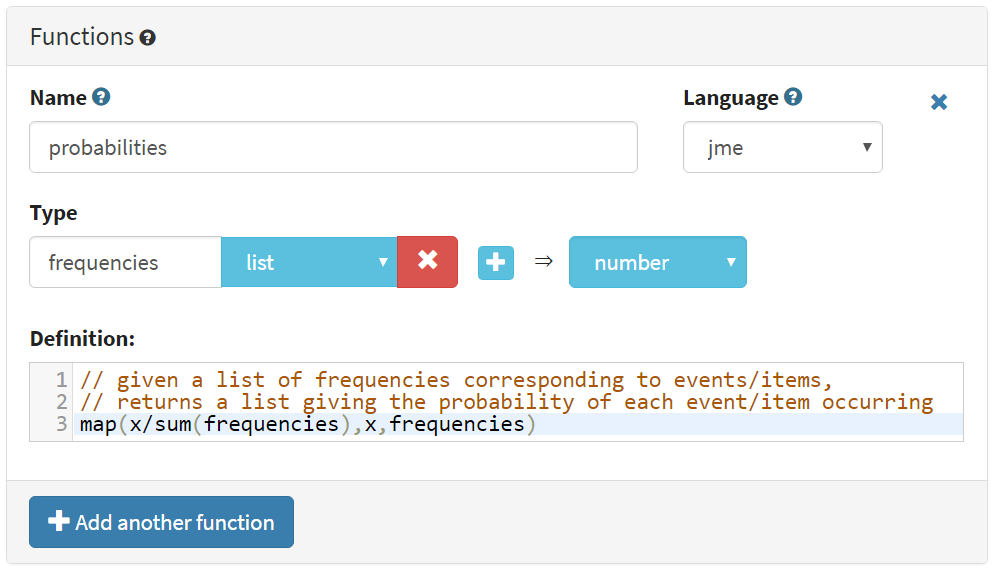
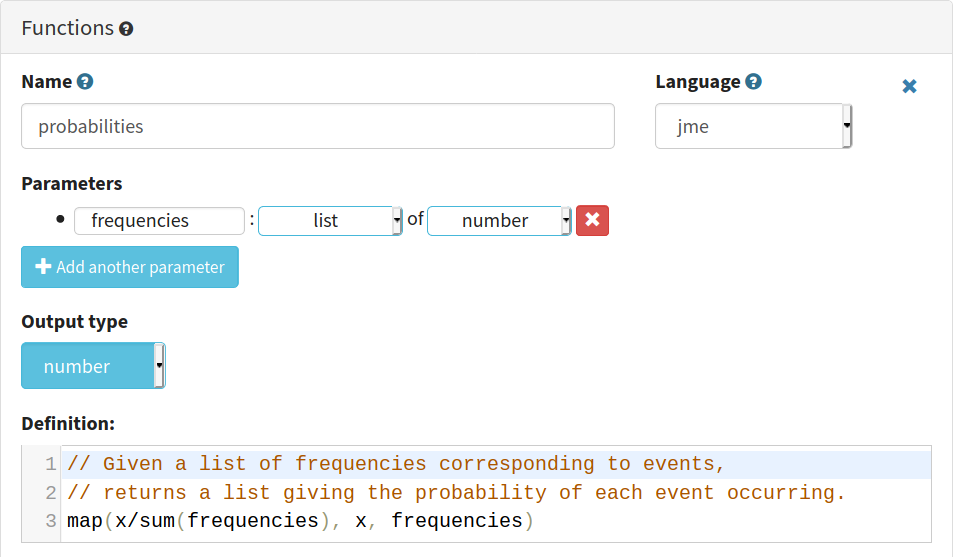
"list of" option for function parameters
Custom JS functions which take lists of numbers need to make sure that
all number-like types are cast to JS numbers.

diff --git a/editor/templates/question/edit.html b/editor/templates/question/edit.html
@@ -691,29 +691,31 @@
                                     </div>
                                 </div>
                                 <div class="form-group form-inline">
-                                    <label>Type</label>
-                                    <ul class="list-inline parameters">
+                                    <label>Parameters</label>
+                                    <ul class="parameters">
                                         <!-- ko foreach: parameters -->
                                         <li class="parameter">
-                                            <div class="input-group">
-                                                <input {% if not editable %}disabled{% endif %} placeholder="Name" type="text" class="form-control" data-bind="textInput: name, autosize: name">
-                                                <span class="input-group-btn">
-                                                    <select {% if not editable %}disabled{% endif %} class="btn btn-info" data-bind="options: $parent.types, value: type" title"Type of this parameter"></select>
-                                                    {% if editable %}<button type="button" class="btn btn-danger" title="Remove this parameter" data-bind="click: remove"><span class="glyphicon glyphicon-remove"></span></button>{% endif %}
-                                                </span>
-                                            </div>
+                                            <input {% if not editable %}disabled{% endif %} placeholder="Name" type="text" class="form-control" data-bind="textInput: name, autosize: name">
+                                            :
+                                            <select {% if not editable %}disabled{% endif %} class="btn btn-info" data-bind="options: $parent.parameterTypes, value: type" title"Type of this parameter"></select>
+                                            <!-- ko if: show_of -->
+                                            of
+                                            <select {% if not editable %}disabled{% endif %} class="btn btn-info" data-bind="options: $parent.parameterTypes, value: of_type" title"Type of the contents"></select>
+                                            <!-- /ko -->
+                                            {% if editable %}<button type="button" class="btn btn-danger btn-xs" title="Remove this parameter" data-bind="click: remove"><span class="glyphicon glyphicon-remove"></span></button>{% endif %}
                                         </li>
                                         <!-- /ko -->
-                                        {% if editable %}
-                                        <li>
-                                            <button type="button" class="btn btn-xs btn-info" title="Add a parameter" data-bind="click: addParameter"><span class="glyphicon glyphicon-plus"></span></button>
-                                        </li>
-                                        {% endif %}
-                                        <li class="output">
-                                            <select {% if not editable %}disabled{% endif %} class="form-control btn-info" data-bind="options: types, value: type" title="Output type"></select>
-                                        </li>
                                     </ul>
+                                    {% if editable %}
+                                    <button type="button" class="btn btn-sm btn-info" title="Add a parameter" data-bind="click: addParameter"><span class="glyphicon glyphicon-plus"></span> <span data-bind="text: parameters().length ? 'Add another parameter' : 'Add a parameter'"></span></button>
+                                    {% endif %}
                                 </div>
+
+                                <div class="form-group form-inline output">
+                                    <label>Output type</label>
+                                    <p><select {% if not editable %}disabled{% endif %} class="form-control btn-info" data-bind="options: outputTypes, value: type" title="Output type"></select></p>
+                                </div>
+
                                 <div clas="form-group">
                                     <label>
                                         Definition:

diff --git a/editor/static/js/question/edit.js b/editor/static/js/question/edit.js
@@ -40,6 +40,7 @@ $(document).ready(function() {
             }
         }
         types.sort();
+        types.splice(0,0,'anything');
         jmeTypes(types);
     }
     find_jme_types();
@@ -862,7 +863,8 @@ $(document).ready(function() {
                             }
                             return {
                                 name: p.name(),
-                                type: p.type()
+                                type: p.type(),
+                                of_type: p.of_type()
                             }
                         })
                     };
@@ -2109,9 +2111,10 @@ $(document).ready(function() {
 
     function CustomFunction(q,data) {
         this.name = ko.observable('');
-        this.types = jmeTypes;
+        this.outputTypes = jmeTypes;
+        this.parameterTypes = jmeTypes;
         this.parameters = ko.observableArray([])
-        this.type = ko.observable('number');
+        this.type = ko.observable('anything');
         this.definition = ko.observable('');
         this.languages = ['jme','javascript'];
         this.language = ko.observable('jme');
@@ -2130,14 +2133,14 @@ $(document).ready(function() {
             tryLoad(data,['name','type','definition','language'],this);
             if('parameters' in data) {
                 data.parameters.map(function(p) {
-                    f.parameters.push(new FunctionParameter(f,p[0],p[1]));
+                    f.parameters.push(new FunctionParameter(f,p[0],p[1] || 'anything',p[2] || 'anything'));
                 });
             }
         },
 
         toJSON: function() {
             var parameters = this.parameters().map(function(p) {
-                return [p.name(), p.type()];
+                return [p.name(), p.type(), p.of_type()];
             });
             return {
                 parameters: parameters,
@@ -2148,13 +2151,19 @@ $(document).ready(function() {
         },
 
         addParameter: function() {
-            this.parameters.push(new FunctionParameter(this,'','number'));
+            this.parameters.push(new FunctionParameter(this,'','number','anything'));
         }
     };
 
-    function FunctionParameter(f,name,type) {
+    function FunctionParameter(f,name,type,of_type) {
         this.name = ko.observable(name);
         this.type = ko.observable(type);
+        this.of_type = ko.observable(of_type);
+
+        this.show_of = ko.computed(function() {
+            return ['list','dict'].contains(this.type());
+        },this);
+
         this.remove = function() {
             f.parameters.remove(this);
         }

diff --git a/editor/static/js/numbas/numbas-runtime.js b/editor/static/js/numbas/numbas-runtime.js
@@ -10884,6 +10884,7 @@ Copyright 2011-14 Newcastle University
  */
 Numbas.queueScript('jme-variables',['base','jme','util'],function() {
 var jme = Numbas.jme;
+var sig = jme.signature;
 var util = Numbas.util;
 /** @namespace Numbas.jme.variables */
 
@@ -10976,7 +10977,15 @@ jme.variables = /** @lends Numbas.jme.variables */ {
         var intype = [],
             paramNames = [];
         tmpfn.parameters.map(function(p) {
-            intype.push(jme.types[p.type]);
+            var type;
+            if(p.type=='list' && p.of_type!='anything') {
+                type = sig.listof(sig.type(p.of_type));
+            } else if(p.type=='dict' && p.of_type!='anything') {
+                type = sig.dict(sig.type(p.of_type));
+            } else {
+                type = jme.types[p.type];
+            }
+            intype.push(type);
             paramNames.push(p.name);
         });
         var outcons = jme.types[tmpfn.outtype];
@@ -14166,7 +14175,13 @@ Question.prototype = /** @lends Numbas.Question.prototype */
                     definition: fd.definition,
                     language: fd.language,
                     outtype: fd.type,
-                    parameters: fd.parameters.map(function(p){ return {name:p[0], type: p[1]}})
+                    parameters: fd.parameters.map(function(p){ 
+                        return {
+                            name:p[0], 
+                            type: p[1] || 'anything', 
+                            of_type: p[2] || 'anything'
+                        }
+                    })
                 };
             });
         }

diff --git a/editor/static/css/question/edit.css b/editor/static/css/question/edit.css
@@ -143,18 +143,21 @@ table.variable-list .value-cell .value {
     text-decoration: line-through;
 }
 
+.function .parameters {
+    list-style: disc;
+}
+
 .function .parameters li {
     margin-bottom: 0.5em;
 }
 
-.function .parameter + .parameter::before {
-    content: ',';
-    margin-right: 0.5em;
-}
-
-.function .output::before {
-    content: '⇒';
-    margin-right: 0.5em;
+.function .parameter .btn.btn-info, .function .parameter input.form-control {
+    padding-top: 0;
+    background: none;
+    color: inherit;
+    padding-bottom: 0;
+    line-height: 1em;
+    height: auto;
 }
 
 .resource img.thumbnail {

diff --git a/docs/question/reference.rst b/docs/question/reference.rst
@@ -419,14 +419,16 @@ Custom functions can be used in any JME expression in the question, such as vari
         JavaScript functions should return their result with a ``return`` expression. 
         You don't need to write the ``function(parameters) {}`` part - just write the function body.
 
-    Output type
-        The type of the value returned by the function. 
-
     Parameters
         The parameters given to the function. 
         You can refer to them by name in the function's definition. 
         Make sure you correctly set the types of the parameters. 
         You can define several functions with the same name but different parameter types, if it makes sense to do so.
+
+        You can specify the type of contents of :data:`list` and :data:`dict` parameters using the selection box following the text :guilabel:`of`.
+
+    Output type
+        The type of the value returned by the function. 
 
 JME functions
 ^^^^^^^^^^^^^
@@ -457,10 +459,10 @@ Here's an example of a function which computes the :math:`n`\ :sup:`th` Fibonacc
         f(n-2)+f(n-1)
     )
 
-Javascript functions
+JavaScript functions
 ^^^^^^^^^^^^^^^^^^^^
 
-Writing a function in Javascript allows you to use all of that language's features, such as loops, anonymous functions and DOM manipulation. 
+Writing a function in JavaScript allows you to use all of that language's features, such as loops, anonymous functions and DOM manipulation. 
 Functions defined in Javasript don't need the ``function(parameters) { ... }`` enclosure - that's provided by Numbas - but they do need to return a value.
 
 Numbas provides a large library of functions which you can use. 
@@ -468,7 +470,12 @@ These are accessed from the objects ``Numbas.math`` and ``Numbas.util``.
 The best way to see what's available is to look at `the Numbas code documentation <http://numbas.github.io/Numbas>`_. 
 `jQuery <http://jquery.com>`_ is also available. 
 
-While the JME system has its own type system for variables, separate from Javascript's, function parameters are unwrapped to native Javascript values on evaluation so you normally don't need to worry about it.
+While the JME system has its own type system for variables, separate from JavaScript's, function parameters are unwrapped to native JavaScript values on evaluation so you normally don't need to worry about it.
+
+.. note::
+
+    You will need to take care when dealing with number-like data types, particularly for lists of numbers.
+    Use the :guilabel:`list of` option for a parameter's type to specify that numbers in a list should be converted to native JavaScript numbers.
 
 .. topic:: Examples
 
@@ -552,9 +559,9 @@ Preamble
 
    The CSS preamble allows you to style certain portions of your question, without relying on a custom exam :ref:`theme <themes>`.
 
-The code written in the :guilabel:`Javascript` preamble is executed when the question is generated, just before the question's variables are calculated. 
-The Javascript preamble can access the question's properties through the `question` variable. 
-You can see an example of the Javascript preamble in use at https://numbas.mathcentre.ac.uk/question/2705/jsxgraph-test-preamble-version/.
+The code written in the :guilabel:`JavaScript` preamble is executed when the question is generated, just before the question's variables are calculated. 
+The JavaScript preamble can access the question's properties through the `question` variable. 
+You can see an example of the JavaScript preamble in use at https://numbas.mathcentre.ac.uk/question/2705/jsxgraph-test-preamble-version/.
 
 You can see what functions are available in JavaScript at `the Numbas code documentation <http://numbas.github.io/Numbas>`_.
 
